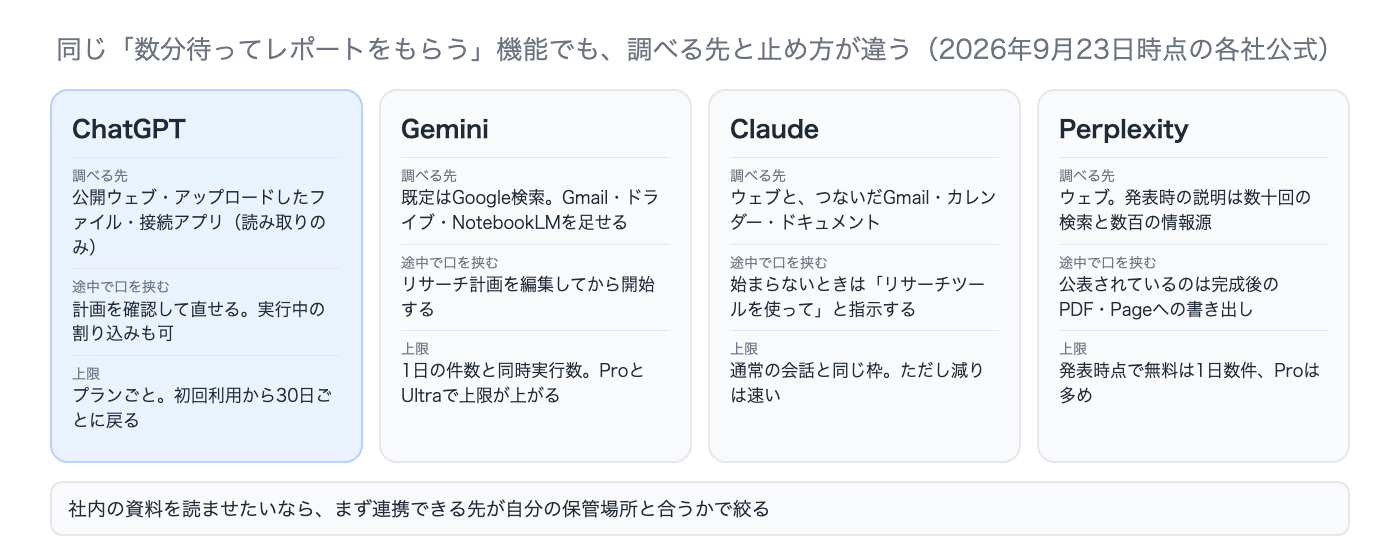
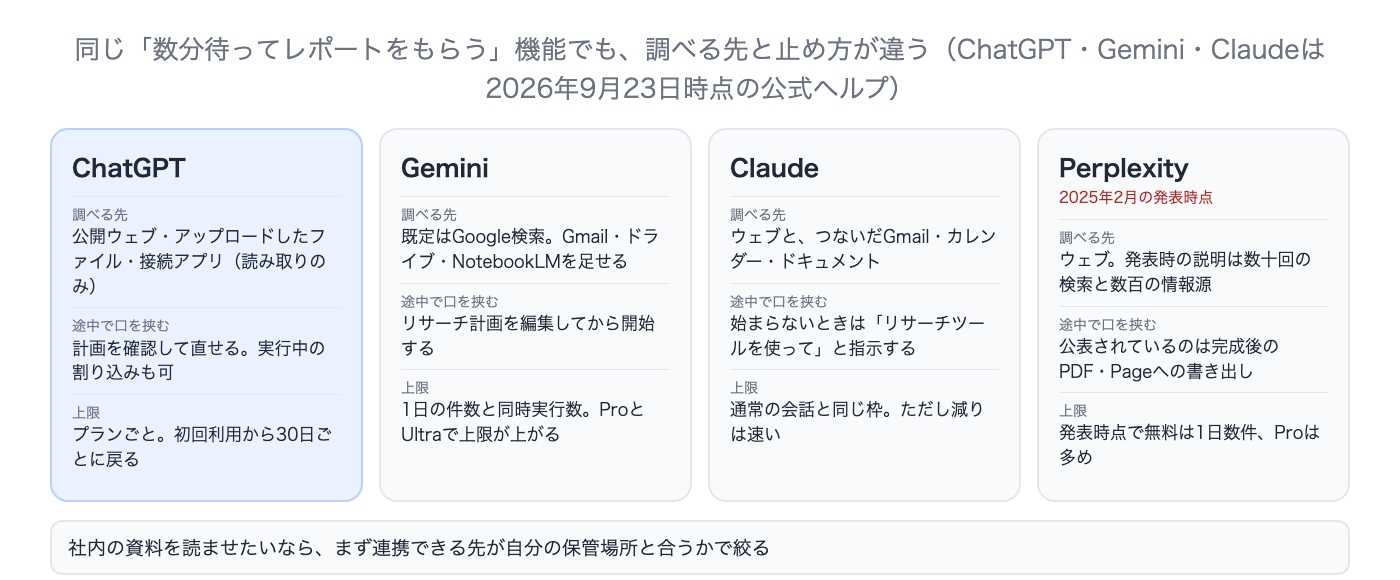
deep-research-guide: 添削の4点＋提案1件を反映
Perplexity の時点を図と本文と description で断り、図の直下の型を減らし、
経験的な主張を公式FAQ由来の書き方に、確かめ方に対象と範囲のずれを追記。

diff --git a/media/deep-research-guide/index.html b/media/deep-research-guide/index.html
@@ -13,11 +13,11 @@
     <meta charset="UTF-8">
     <meta name="viewport" content="width=device-width, initial-scale=1.0">
     <title>【2026年9月】ディープリサーチの使い方｜4社の違いと頼み方のコツ | nito Column</title>
-    <meta name="description" content="ディープリサーチはChatGPT・Gemini・Claude・Perplexityで設計が違います。各社の公式ヘルプから、調べに行く先、途中で口を挟めるか、上限の数え方を比べ、失敗しない頼み方をまとめます。">
+    <meta name="description" content="ディープリサーチはChatGPT・Gemini・Claude・Perplexityで設計が違います。各社の公式情報から、調べに行く先、途中で口を挟めるか、上限の数え方を比べ、失敗しない頼み方をまとめます。">
     <link rel="canonical" href="https://nito-0210.com/media/deep-research-guide/">
     <meta property="og:type" content="article">
     <meta property="og:title" content="【2026年9月】ディープリサーチの使い方｜4社の違いと頼み方のコツ">
-    <meta property="og:description" content="ディープリサーチはChatGPT・Gemini・Claude・Perplexityで設計が違います。各社の公式ヘルプから、調べに行く先、途中で口を挟めるか、上限の数え方を比べ、失敗しない頼み方をまとめます。">
+    <meta property="og:description" content="ディープリサーチはChatGPT・Gemini・Claude・Perplexityで設計が違います。各社の公式情報から、調べに行く先、途中で口を挟めるか、上限の数え方を比べ、失敗しない頼み方をまとめます。">
     <meta property="og:url" content="https://nito-0210.com/media/deep-research-guide/">
     <meta property="og:site_name" content="nito Column">
     <meta property="og:image" content="https://nito-0210.com/media/images/og/_default.jpg">
@@ -26,7 +26,7 @@
     <meta name="twitter:card" content="summary_large_image">
     <meta name="twitter:image" content="https://nito-0210.com/media/images/og/_default.jpg">
     <link rel="icon" href="/favicon.png">
-    <script type="application/ld+json">{"@context": "https://schema.org", "@type": "Article", "headline": "【2026年9月】ディープリサーチの使い方｜4社の違いと頼み方のコツ", "description": "ディープリサーチはChatGPT・Gemini・Claude・Perplexityで設計が違います。各社の公式ヘルプから、調べに行く先、途中で口を挟めるか、上限の数え方を比べ、失敗しない頼み方をまとめます。", "datePublished": "2026-09-23", "dateModified": "2026-09-23", "author": {"@type": "Person", "name": "岡村 希一", "jobTitle": "nito代表", "description": "サイバーエージェントで広告の新規事業開発、株式会社刀の選抜型マーケティングプログラムを経て nito を設立。累計300本以上のWeb記事の企画・執筆・効果測定を担当し、AI検索対策では支援開始3か月でAI経由のコンバージョンを3.8倍にした実績を持つ。自社の運営にAIエージェントを組み込んでおり、その仕組みを他社に移植するAIエージェント構築支援も行う。", "worksFor": {"@type": "Organization", "name": "nito", "url": "https://nito-0210.com/"}}, "publisher": {"@type": "Organization", "name": "nito", "url": "https://nito-0210.com/"}, "mainEntityOfPage": {"@type": "WebPage", "@id": "https://nito-0210.com/media/deep-research-guide/"}, "articleSection": "AI検索対策", "inLanguage": "ja"}</script>
+    <script type="application/ld+json">{"@context": "https://schema.org", "@type": "Article", "headline": "【2026年9月】ディープリサーチの使い方｜4社の違いと頼み方のコツ", "description": "ディープリサーチはChatGPT・Gemini・Claude・Perplexityで設計が違います。各社の公式情報から、調べに行く先、途中で口を挟めるか、上限の数え方を比べ、失敗しない頼み方をまとめます。", "datePublished": "2026-09-23", "dateModified": "2026-09-23", "author": {"@type": "Person", "name": "岡村 希一", "jobTitle": "nito代表", "description": "サイバーエージェントで広告の新規事業開発、株式会社刀の選抜型マーケティングプログラムを経て nito を設立。累計300本以上のWeb記事の企画・執筆・効果測定を担当し、AI検索対策では支援開始3か月でAI経由のコンバージョンを3.8倍にした実績を持つ。自社の運営にAIエージェントを組み込んでおり、その仕組みを他社に移植するAIエージェント構築支援も行う。", "worksFor": {"@type": "Organization", "name": "nito", "url": "https://nito-0210.com/"}}, "publisher": {"@type": "Organization", "name": "nito", "url": "https://nito-0210.com/"}, "mainEntityOfPage": {"@type": "WebPage", "@id": "https://nito-0210.com/media/deep-research-guide/"}, "articleSection": "AI検索対策", "inLanguage": "ja"}</script>
 <script type="application/ld+json">{"@context": "https://schema.org", "@type": "BreadcrumbList", "itemListElement": [{"@type": "ListItem", "position": 1, "name": "ホーム", "item": "https://nito-0210.com/"}, {"@type": "ListItem", "position": 2, "name": "コラム", "item": "https://nito-0210.com/media/"}, {"@type": "ListItem", "position": 3, "name": "【2026年9月】ディープリサーチの使い方｜4社の違いと頼み方のコツ"}]}</script>
     <link rel="preconnect" href="https://fonts.googleapis.com">
     <link rel="preconnect" href="https://fonts.gstatic.com" crossorigin>
@@ -62,7 +62,7 @@
 
         <div class="post-content">
 <p>ディープリサーチは1つの製品名ではありません。ChatGPTにもGeminiにもClaudeにもPerplexityにも同じ趣旨の機能があり、<strong>どれも数分待つ代わりに出典つきのレポートが返ってくる</strong>点は共通しています。違うのはどこを調べに行くか、途中で口を挟めるか、何回使えるかです。</p>
-<p>ここでは各社の公式ヘルプ（2026年9月23日取得）から、4つの機能を同じ観点で並べます。日常の調べものをどのAI検索に投げるかという話は<a href="https://nito-0210.com/media/ai-search-engine-comparison/">AI検索エンジンの比較記事</a>にあります。</p>
+<p>ここでは各社の公式ヘルプと発表記事（2026年9月23日取得）から、4つの機能を同じ観点で並べます。日常の調べものをどのAI検索に投げるかという話は<a href="https://nito-0210.com/media/ai-search-engine-comparison/">AI検索エンジンの比較記事</a>にあります。</p>
 <div class="takeaways"><div class="takeaways__ttl">この記事のポイント</div><div class="takeaways__body"><ul>
 <li>共通する流れは<strong>計画を立てる、調べる、出典つきでまとめる</strong>の3段</li>
 <li><strong>ChatGPTは計画を見せてから走る</strong>。実行中に割り込んで対象を変えられる</li>
@@ -100,20 +100,18 @@ b.addEventListener('click',function(){var o=t.classList.toggle('is-open');b.text
 <p>観点を3つに絞ると、違いがはっきりします。</p>
 <figure class="post-figure"><img src="/media/images/deep-research-guide/dr_04_fig_compare.png" alt="ChatGPT・Gemini・Claude・Perplexityのディープリサーチ比較図。調べる先、途中で口を挟めるか、上限の数え方を4社で並べている" loading="lazy"><figcaption>調べる先と止め方と上限で4社を比べる</figcaption></figure>
 
-<p>選ぶ基準として効くのは、自分が読ませたい資料の置き場所です。</p>
+<p>Perplexityの列だけは2025年2月の発表記事に基づく内容で、他の3社とは時点が違います。選ぶ基準として効くのは自分が読ませたい資料の置き場所です。</p>
 <h2 id="s3">ChatGPTは計画を見せてから走る</h2>
 <p>入口は3つあります。プロンプトに<code>/Deepresearch</code>と打つ、入力欄の<code>+</code>からツールを開いて選ぶ、サイドバーのメニューから選ぶ、のいずれかです。</p>
 <figure class="post-figure"><img src="/media/images/deep-research-guide/dr_01_chatgpt.png" alt="OpenAIヘルプセンターのDeep researchのページ。リサーチの始め方として、スラッシュコマンド、ツールメニュー、サイドバーの3つの入口が挙げられている" loading="lazy"><figcaption>公式ヘルプに載っている3つの入口</figcaption></figure>
 
-<p>特徴は、依頼をそのまま実行しない点にあります。</p>
-<p>ChatGPTはまず<strong>調査計画を提案</strong>し、こちらが確認して直してから調べ始めます。走っている最中も進み具合を見られ、いつでも割り込んで焦点や使わせる情報源を変えられます。最後に出てくるのは、出典またはソースのリンクが付いた構造化されたレポートです。</p>
+<p>特徴は、依頼をそのまま実行しない点にあります。ChatGPTはまず<strong>調査計画を提案</strong>し、こちらが確認して直してから調べ始めます。走っている最中も進み具合を見られ、いつでも割り込んで焦点や使わせる情報源を変えられます。最後に出てくるのは、出典またはソースのリンクが付いた構造化されたレポートです。</p>
 <p>調べる先は既定では公開ウェブとアップロードしたファイルです。権限とワークスペースの設定が許せば、Google ドライブやSharePointのような文書の保管先や、認証が要る業界データのサービスも対象になります。ここで押さえておきたいのは、<strong>接続アプリの読み取り操作しか使わない</strong>ことです。調査の途中で相手のサービスに書き込むことはありません。</p>
 <p>上限はプランごとに違い、残りは画面の利用カウンターに出ます。月ごとの割り当てがあるプランでは、<strong>最初に使った日から30日ごと</strong>に戻ります。</p>
 <h2 id="s4">GeminiはGoogle検索が既定</h2>
 <p>Geminiアプリではテキストボックスのファイル追加のメニューからDeep Researchを選びます。使うには18歳以上であることと、Geminiアプリにログインしていることが条件です。</p>
 <figure class="post-figure"><img src="/media/images/deep-research-guide/dr_02_gemini.jpg" alt="Geminiアプリヘルプの日本語ページ。Deep Researchは既定でGoogle検索をソースに使い、GmailやGoogleドライブ、NotebookLMのノートブックを追加できると書かれている" loading="lazy"><figcaption>Geminiアプリの公式ヘルプ</figcaption></figure>
 
-<p>Googleのサービスを業務で使っている人には、この連携先の並びがそのまま利点になります。</p>
 <p>既定の情報源はGoogle検索です。必要に応じて個人のGmailやGoogle ドライブなどを足したり変えたりでき、ファイルのアップロードや<strong>NotebookLMのノートブックの追加</strong>もできます。手元の資料を中心に調べさせたい場合は、ここで先に絞ります。</p>
 <p>モデルは2段階です。高速モードでのレポート生成は誰でも使え、Google AI ProとGoogle AI Ultraでは思考モードでより質の高いレポートを作れます。上限は1日に実行できる件数と同時に実行できる件数の2つがあり、近づくと通知が出ます。ProとUltraでは上限が高く設定されている形です。Ultraではレポートにグラフや図、対話的なシミュレータのようなビジュアルも入ります。</p>
 <p>NotebookLM側の使い方は<a href="https://nito-0210.com/media/gemini-notebook-guide/">NotebookLMの使い方の記事</a>にまとめています。</p>
@@ -121,7 +119,7 @@ b.addEventListener('click',function(){var o=t.classList.toggle('is-open');b.text
 <p>ClaudeのResearchは、Pro・Max・Team・Enterpriseの有料プランで、ウェブ版とデスクトップ版とモバイル版から使えます。</p>
 <figure class="post-figure"><img src="/media/images/deep-research-guide/dr_03_claude.jpg" alt="Claude公式サポートのResearchのページ。有料プランで使えること、ウェブ検索をオンにしていないと機能しないことが書かれている" loading="lazy"><figcaption>ClaudeのResearchの公式サポートページ</figcaption></figure>
 
-<p>つまずくとしたら、たいていは前提の設定です。ウェブ検索を切ったままだと、Researchを選んでも動きません。</p>
+<p>公式のFAQが最初に挙げているのはウェブ検索の設定です。切ったままだと、Researchを選んでも動きません。</p>
 <p>始め方はチャット画面の左下の<code>+</code>ボタンからResearchを選ぶだけです。オンになると画面の下に青い印が出て、もう一度押すと解除されます。Gmail・Googleカレンダー・Googleドキュメントをつないでいれば、社内の文脈とウェブの両方を調べます。</p>
 <p>公式のFAQにはResearchをオンにしたのに調べ始めないときの対処も載っています。「リサーチツールを使って」と明示的に頼む、社内の資料を見ていないときは「この情報源から関連する文脈を引いて」と指定する、という指示の出し方です。</p>
 <p>上限の数え方は他社と違います。Researchは通常の会話と同じ枠を使い、別枠にはなりません。ただし複数の情報源を取りに行くぶん、<strong>枠の減りは速くなる</strong>と公式が書いています。</p>
@@ -133,7 +131,7 @@ b.addEventListener('click',function(){var o=t.classList.toggle('is-open');b.text
 <p>どのサービスでも、レポートの質を左右するのは依頼文です。数分待った結果が使えないと分かるのが最大の損失なので、<strong>成果物の形から先に書きます</strong>。</p>
 <figure class="post-figure"><img src="/media/images/deep-research-guide/dr_05_fig_prompt.png" alt="ディープリサーチの依頼文の比較図。曖昧な依頼では対象が広がり出典の質もばらつくのに対し、成果物の形と範囲と情報源の条件を指定した依頼では計画の段階でずれを直せる" loading="lazy"><figcaption>曖昧な依頼と、成果物から書く依頼</figcaption></figure>
 
-<p>右側の書き方なら、計画が出た時点でずれに気づけます。</p>
+<p>成果物の形から書く依頼なら、計画が出た時点でずれに気づけます。</p>
 <p>先に決めるのは次の4つです。</p>
 <table>
 <thead>
@@ -169,11 +167,12 @@ b.addEventListener('click',function(){var o=t.classList.toggle('is-open');b.text
 <li>出典の日付。古い記事を最新の状況として書いていないか</li>
 <li>引用元のページに、その数字が本当に書かれているか</li>
 </ol>
+<p>先に外れるのは数字そのものより、その数字が誰に、どのプランに、どの国に当てはまるかのほうです。金額は合っているのに対象と範囲が違う、という形で資料に転記すると事故になります。</p>
 <p>3つ目は手間に見えますが、レポート全体ではなく、意思決定に使う数字だけで構いません。社外に出す資料に載せる数字は、リンクを開いて自分の目で確認します。</p>
 <h2 id="s9">AI検索での見え方は別の話</h2>
 <p>ディープリサーチを自分で使うことと、自社の情報がこうしたレポートに引用されるかは別の問題です。後者はAIがたどれる形で一次情報が置かれているかで決まります。考え方は<a href="https://nito-0210.com/media/ai-cited-writing/">AI検索で引用される記事の書き方</a>にまとめています。</p>
 <h2 id="s10">よくある質問</h2>
-<p>回答の内容はすべて2026年9月23日時点の各社公式ヘルプの記載です。</p>
+<p>回答の内容はすべて2026年9月23日時点の各社公式ページの記載です。Perplexityの項目だけは2025年2月の発表記事に基づきます。</p>
 <p><strong>ディープリサーチは無料で使えますか？</strong></p>
 <p>サービスによります。Geminiは高速モードでのレポート生成が誰でも使えます。ClaudeのResearchはPro・Max・Team・Enterpriseの有料プランが対象です。ChatGPTは利用枠がプランごとに決まっています。</p>
 <p><strong>どれくらい時間がかかりますか？</strong></p>
